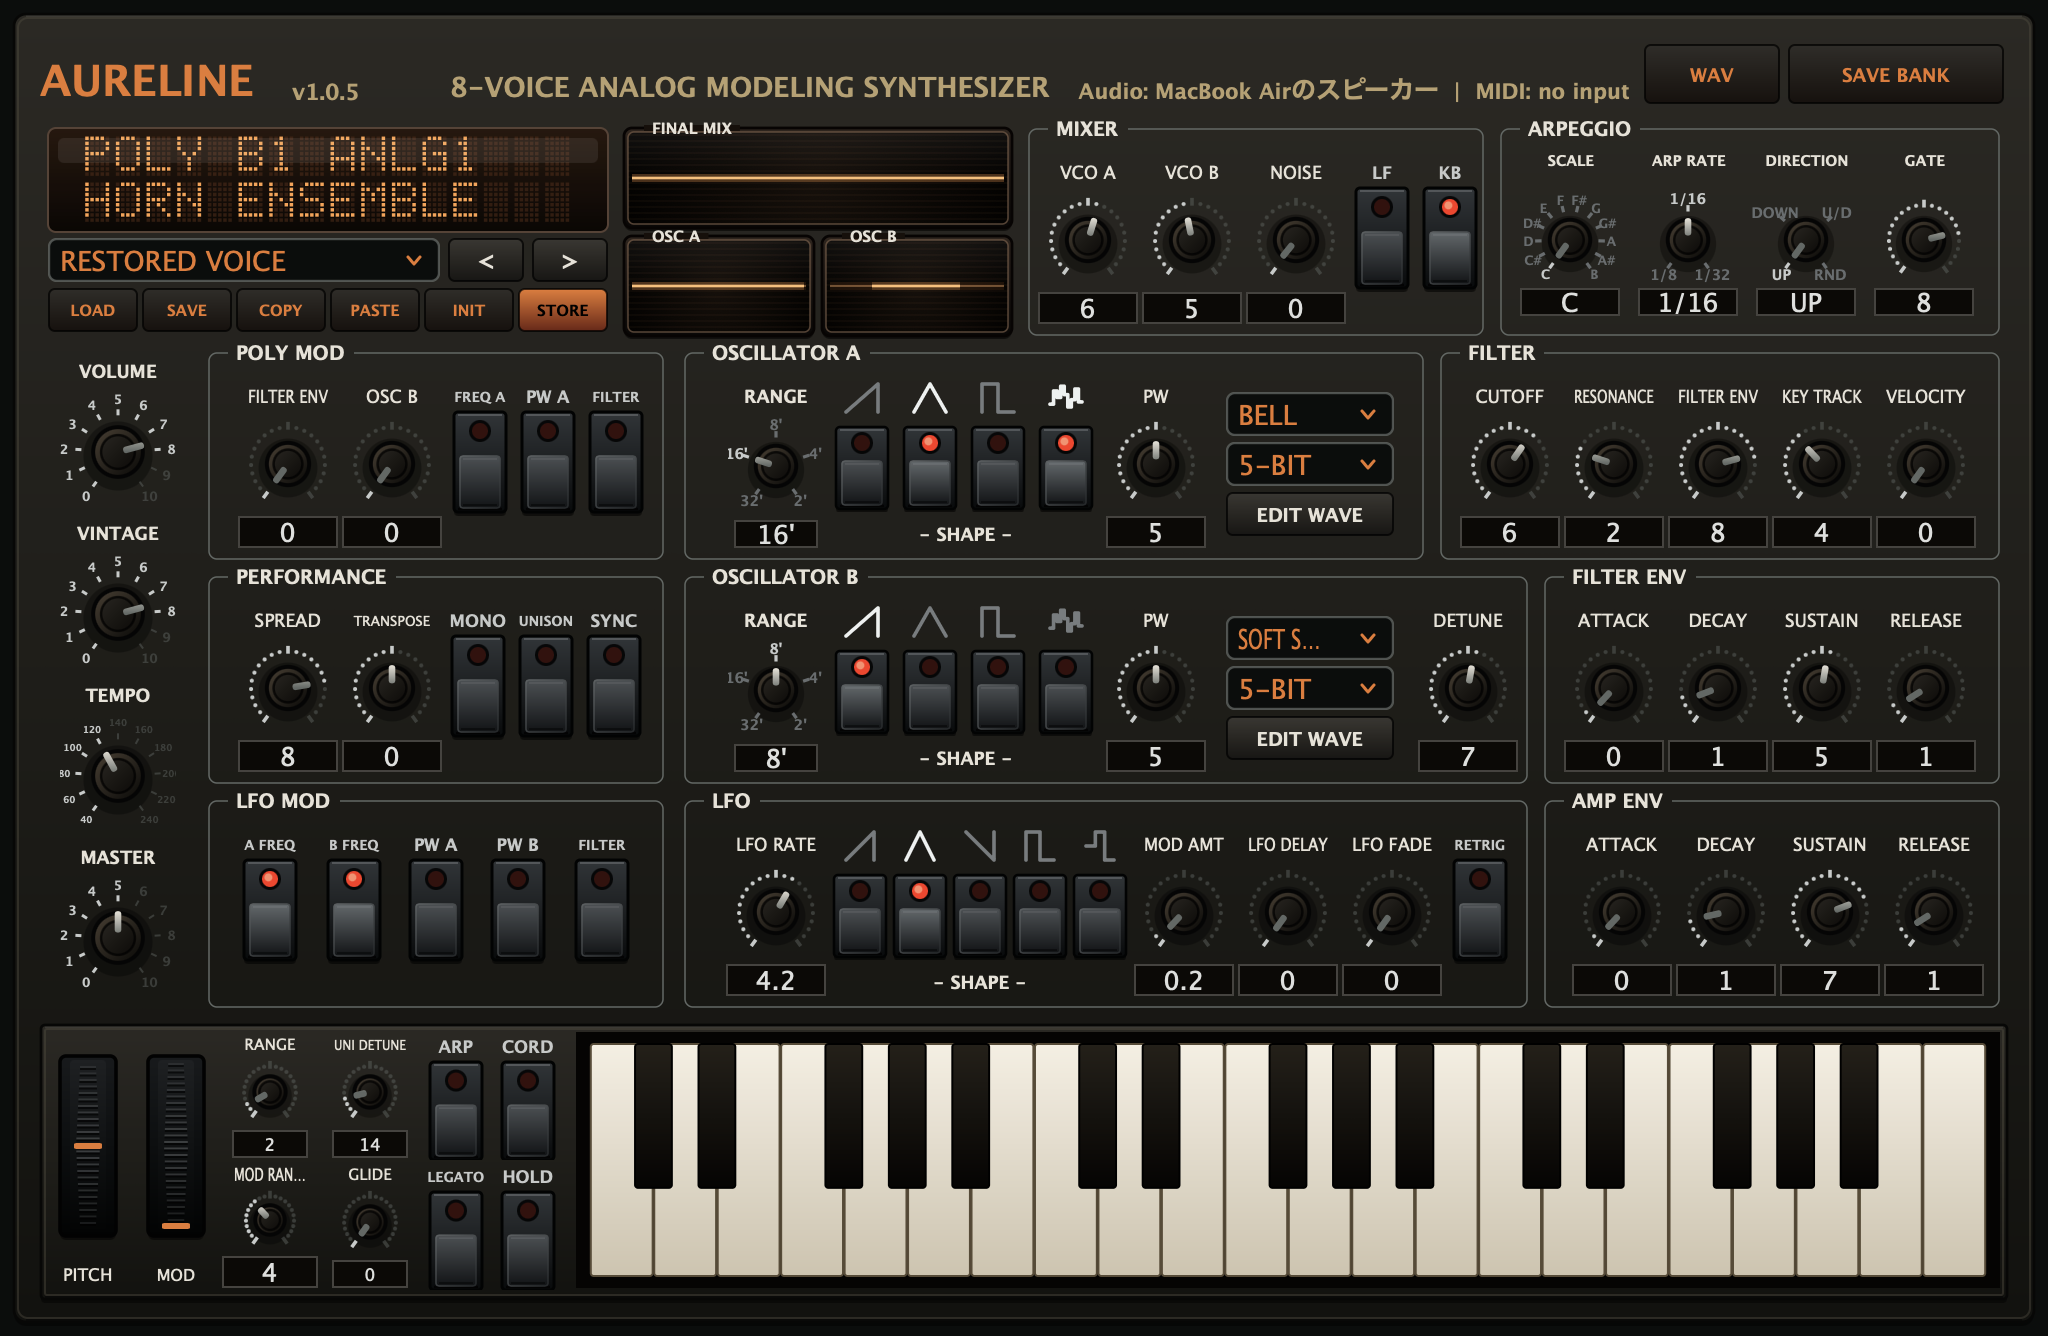
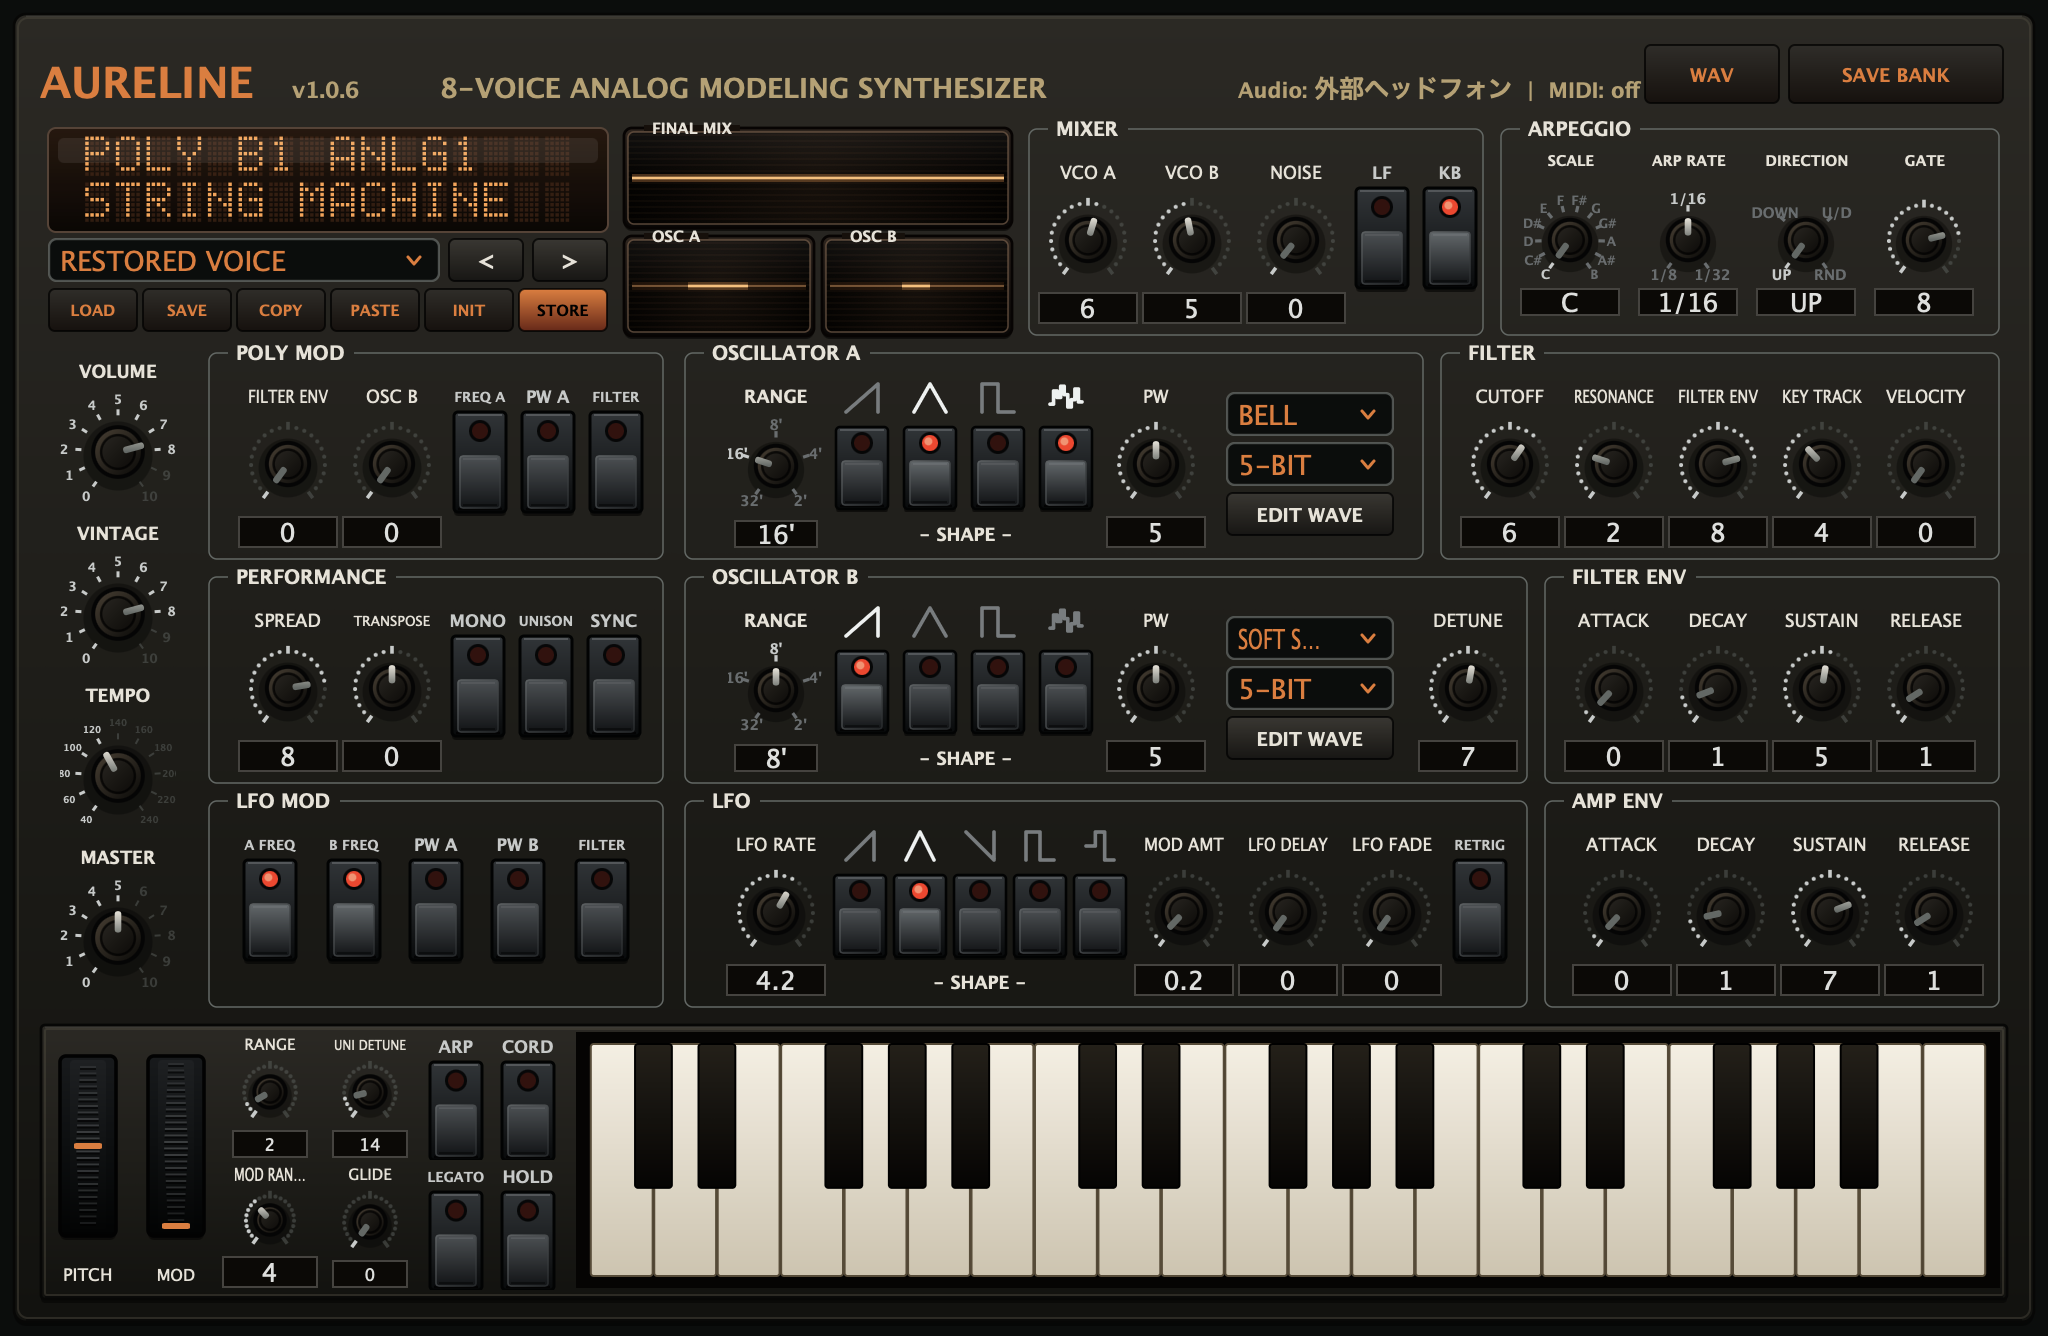
Release Aureline v1.0.6

Changed region(s): [[0.2188, 0.0307, 0.8125, 0.0921], [0.0625, 0.1228, 0.25, 0.1534], [0.1562, 0.0614, 0.1875, 0.0921]]

diff --git a/README_ja.md b/README_ja.md
@@ -6,7 +6,7 @@ Aurelineは、Hidecade Instrumentsによる8音ポリフォニック・アナロ
 シンセサイザーです。クラシックなポリシンセの直接的な操作感に、Aureline独自の
 音源エンジン、UI、Wave Memoryオシレーター、音色ライブラリを組み合わせています。
 
-最新リリース：[v1.0.5](https://github.com/Hidecade/Aureline/releases/tag/v1.0.5)
+最新リリース：[v1.0.6](https://github.com/Hidecade/Aureline/releases/tag/v1.0.6)
 
 ![Aurelineデスクトップ版シンセサイザー画面](docs/images/aureline-desktop.png)
 

diff --git a/README.md b/README.md
@@ -6,7 +6,7 @@ Aureline is an eight-voice analog-modeling synthesizer by Hidecade Instruments.
 It combines a direct, classic polysynth workflow with Aureline's own sound
 engine, interface, Wave Memory oscillators, and voice library.
 
-Current release: [v1.0.5](https://github.com/Hidecade/Aureline/releases/tag/v1.0.5)
+Current release: [v1.0.6](https://github.com/Hidecade/Aureline/releases/tag/v1.0.6)
 
 ![Aureline desktop synthesizer interface](docs/images/aureline-desktop.png)
 
